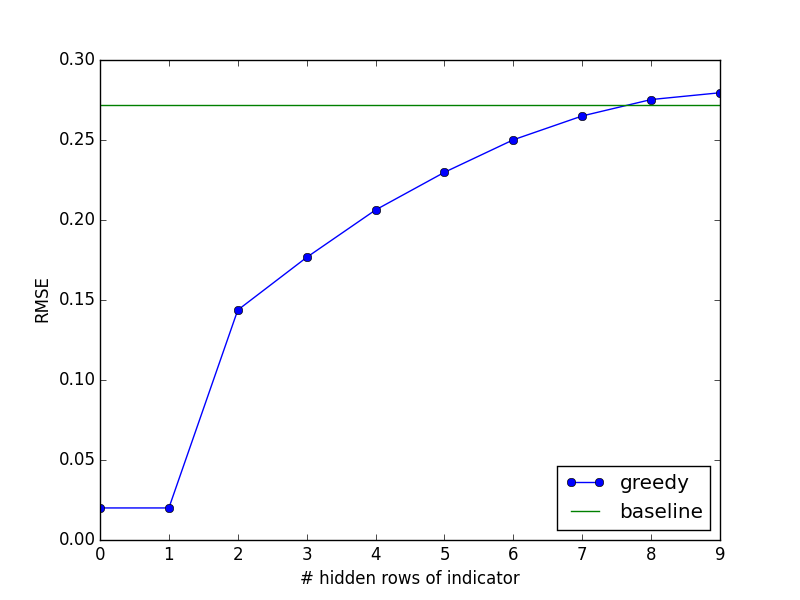
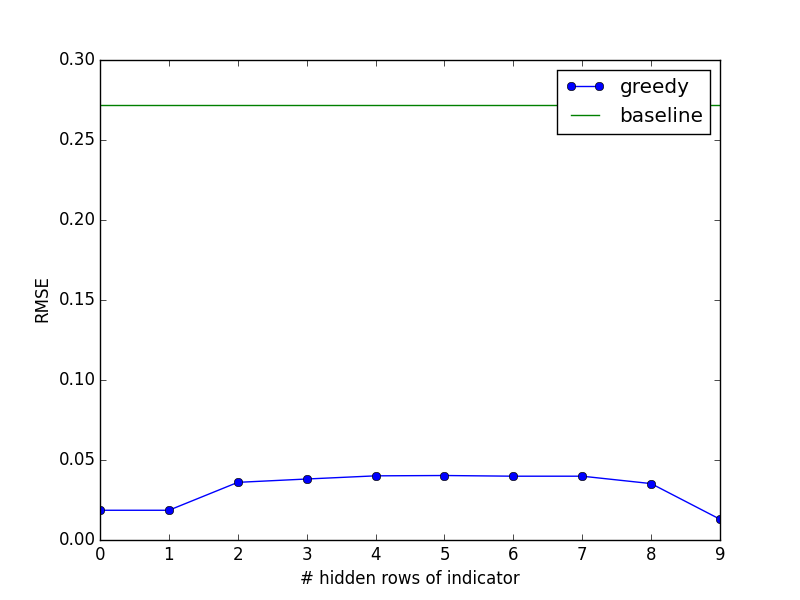
update

diff --git a/SimpleGreedyLSystem/SimpleGreedyLSystem.cpp b/SimpleGreedyLSystem/SimpleGreedyLSystem.cpp
@@ -61,12 +61,18 @@ int SimpleGreedyLSystem::chooseParam(const cv::Point2d& pt, const cv::Mat_<doubl
 	for (int r = pt.y; r < target_density.rows; ++r) {
 		cv::Point2d vec(0, 0);
 		bool found = false;
-		for (int c = 0; c < target_density.cols; ++c) {
-			if (target_density(r, c) == 0) continue;
 
-			found = true;
-			vec.x += (c + 0.5f - pt.x) * target_density(r, c);
-			vec.y += (r - pt.y) * target_density(r, c);
+		// 直近の2行のdensity情報をもとに、方向ベクトルを計算する
+		for (int rr = 0; rr < 2; ++rr) {
+			if (r + rr >= target_density.rows) break;
+
+			for (int c = 0; c < target_density.cols; ++c) {
+				if (target_density(r + rr, c) == 0) continue;
+
+				found = true;
+				vec.x += (c + 0.5f - pt.x) * target_density(r + rr, c);
+				vec.y += (r + rr - pt.y) * target_density(r + rr, c);
+			}
 		}
 
 		// この行にdensity情報がなければ、次の行を探す

diff --git a/SimpleGreedyLSystem/graph.py b/SimpleGreedyLSystem/graph.py
@@ -18,6 +18,6 @@ plt.plot(data[:,0], data[:,2], '-', label="baseline")
 		#plt.xlabel('angle')
 plt.xlabel('# hidden rows of indicator')
 plt.ylabel('RMSE')
-plt.legend(loc='lower right')
+plt.legend(loc='upper right')
 plt.savefig('results.png')
 plt.show()

diff --git a/SimpleGreedyLSystem/main.cpp b/SimpleGreedyLSystem/main.cpp
@@ -50,7 +50,7 @@ void test_linearity() {
 	cout << "RMSE: " << endl;
 
 	// Inverse
-	for (int k = 3; k < grid_size; ++k) {
+	for (int k = 0; k < grid_size; ++k) {
 		cv::Mat_<double> testY2 = testY.clone();
 
 		// 最初のk行分を0にする
